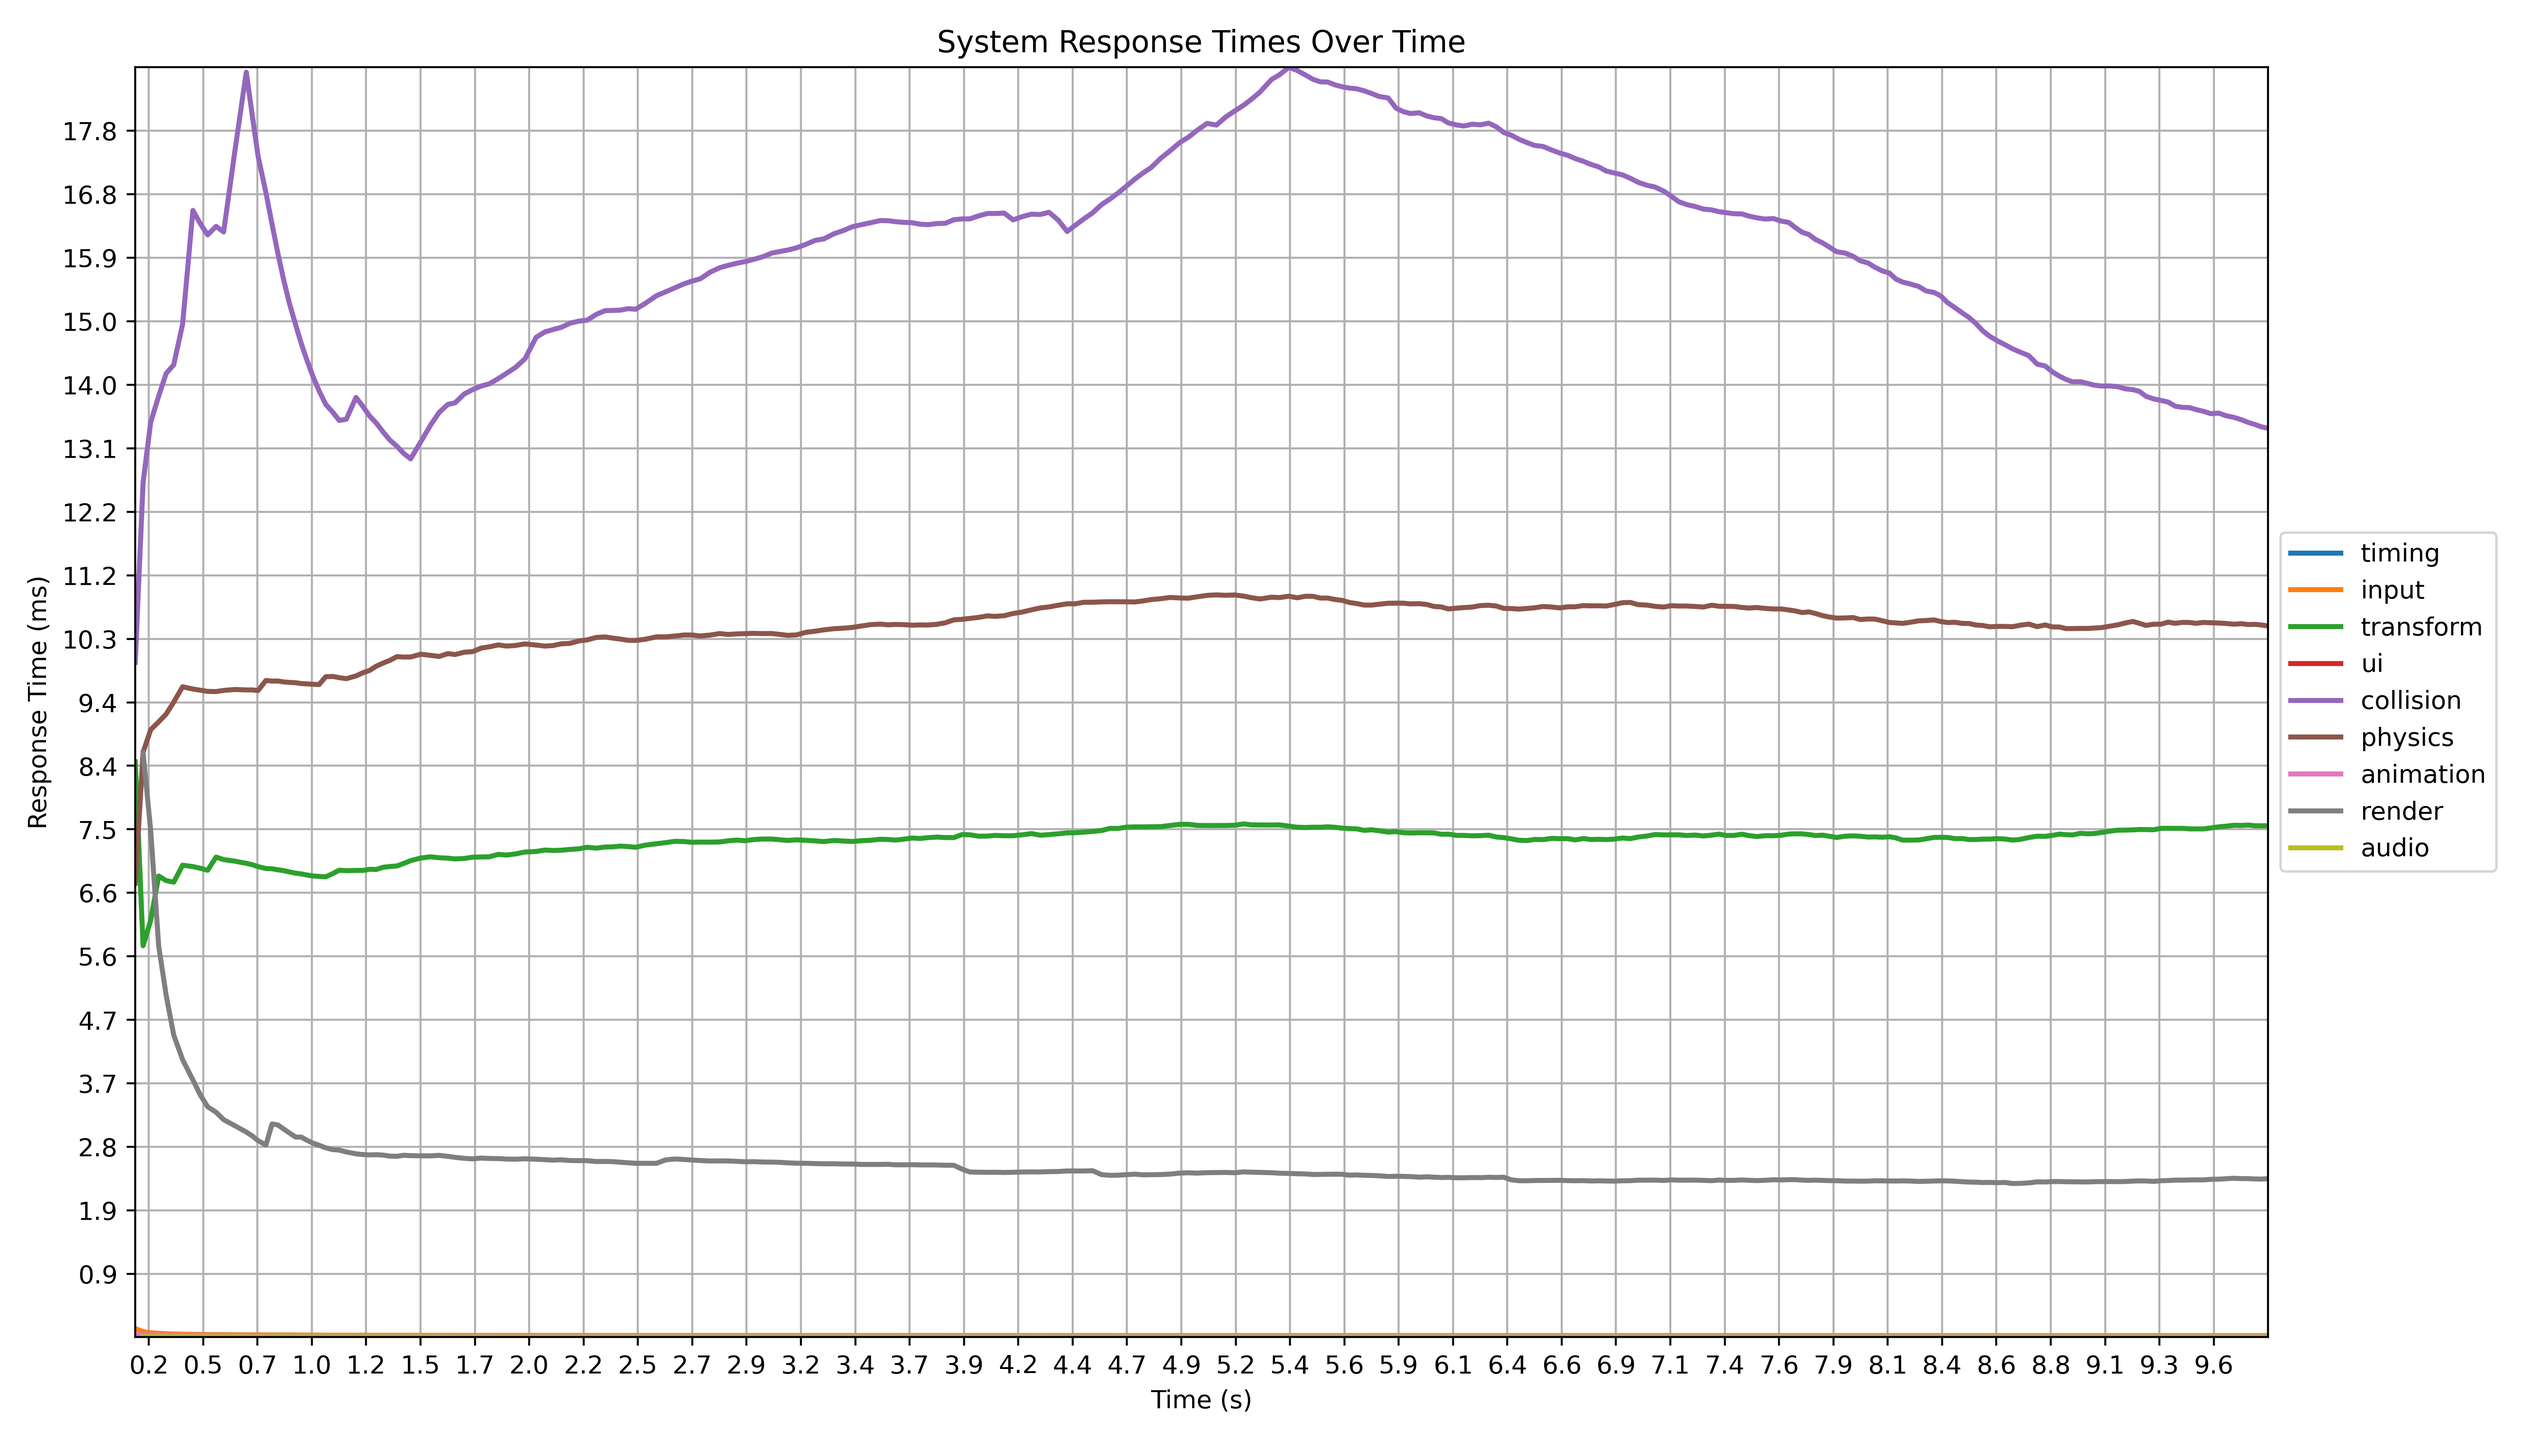
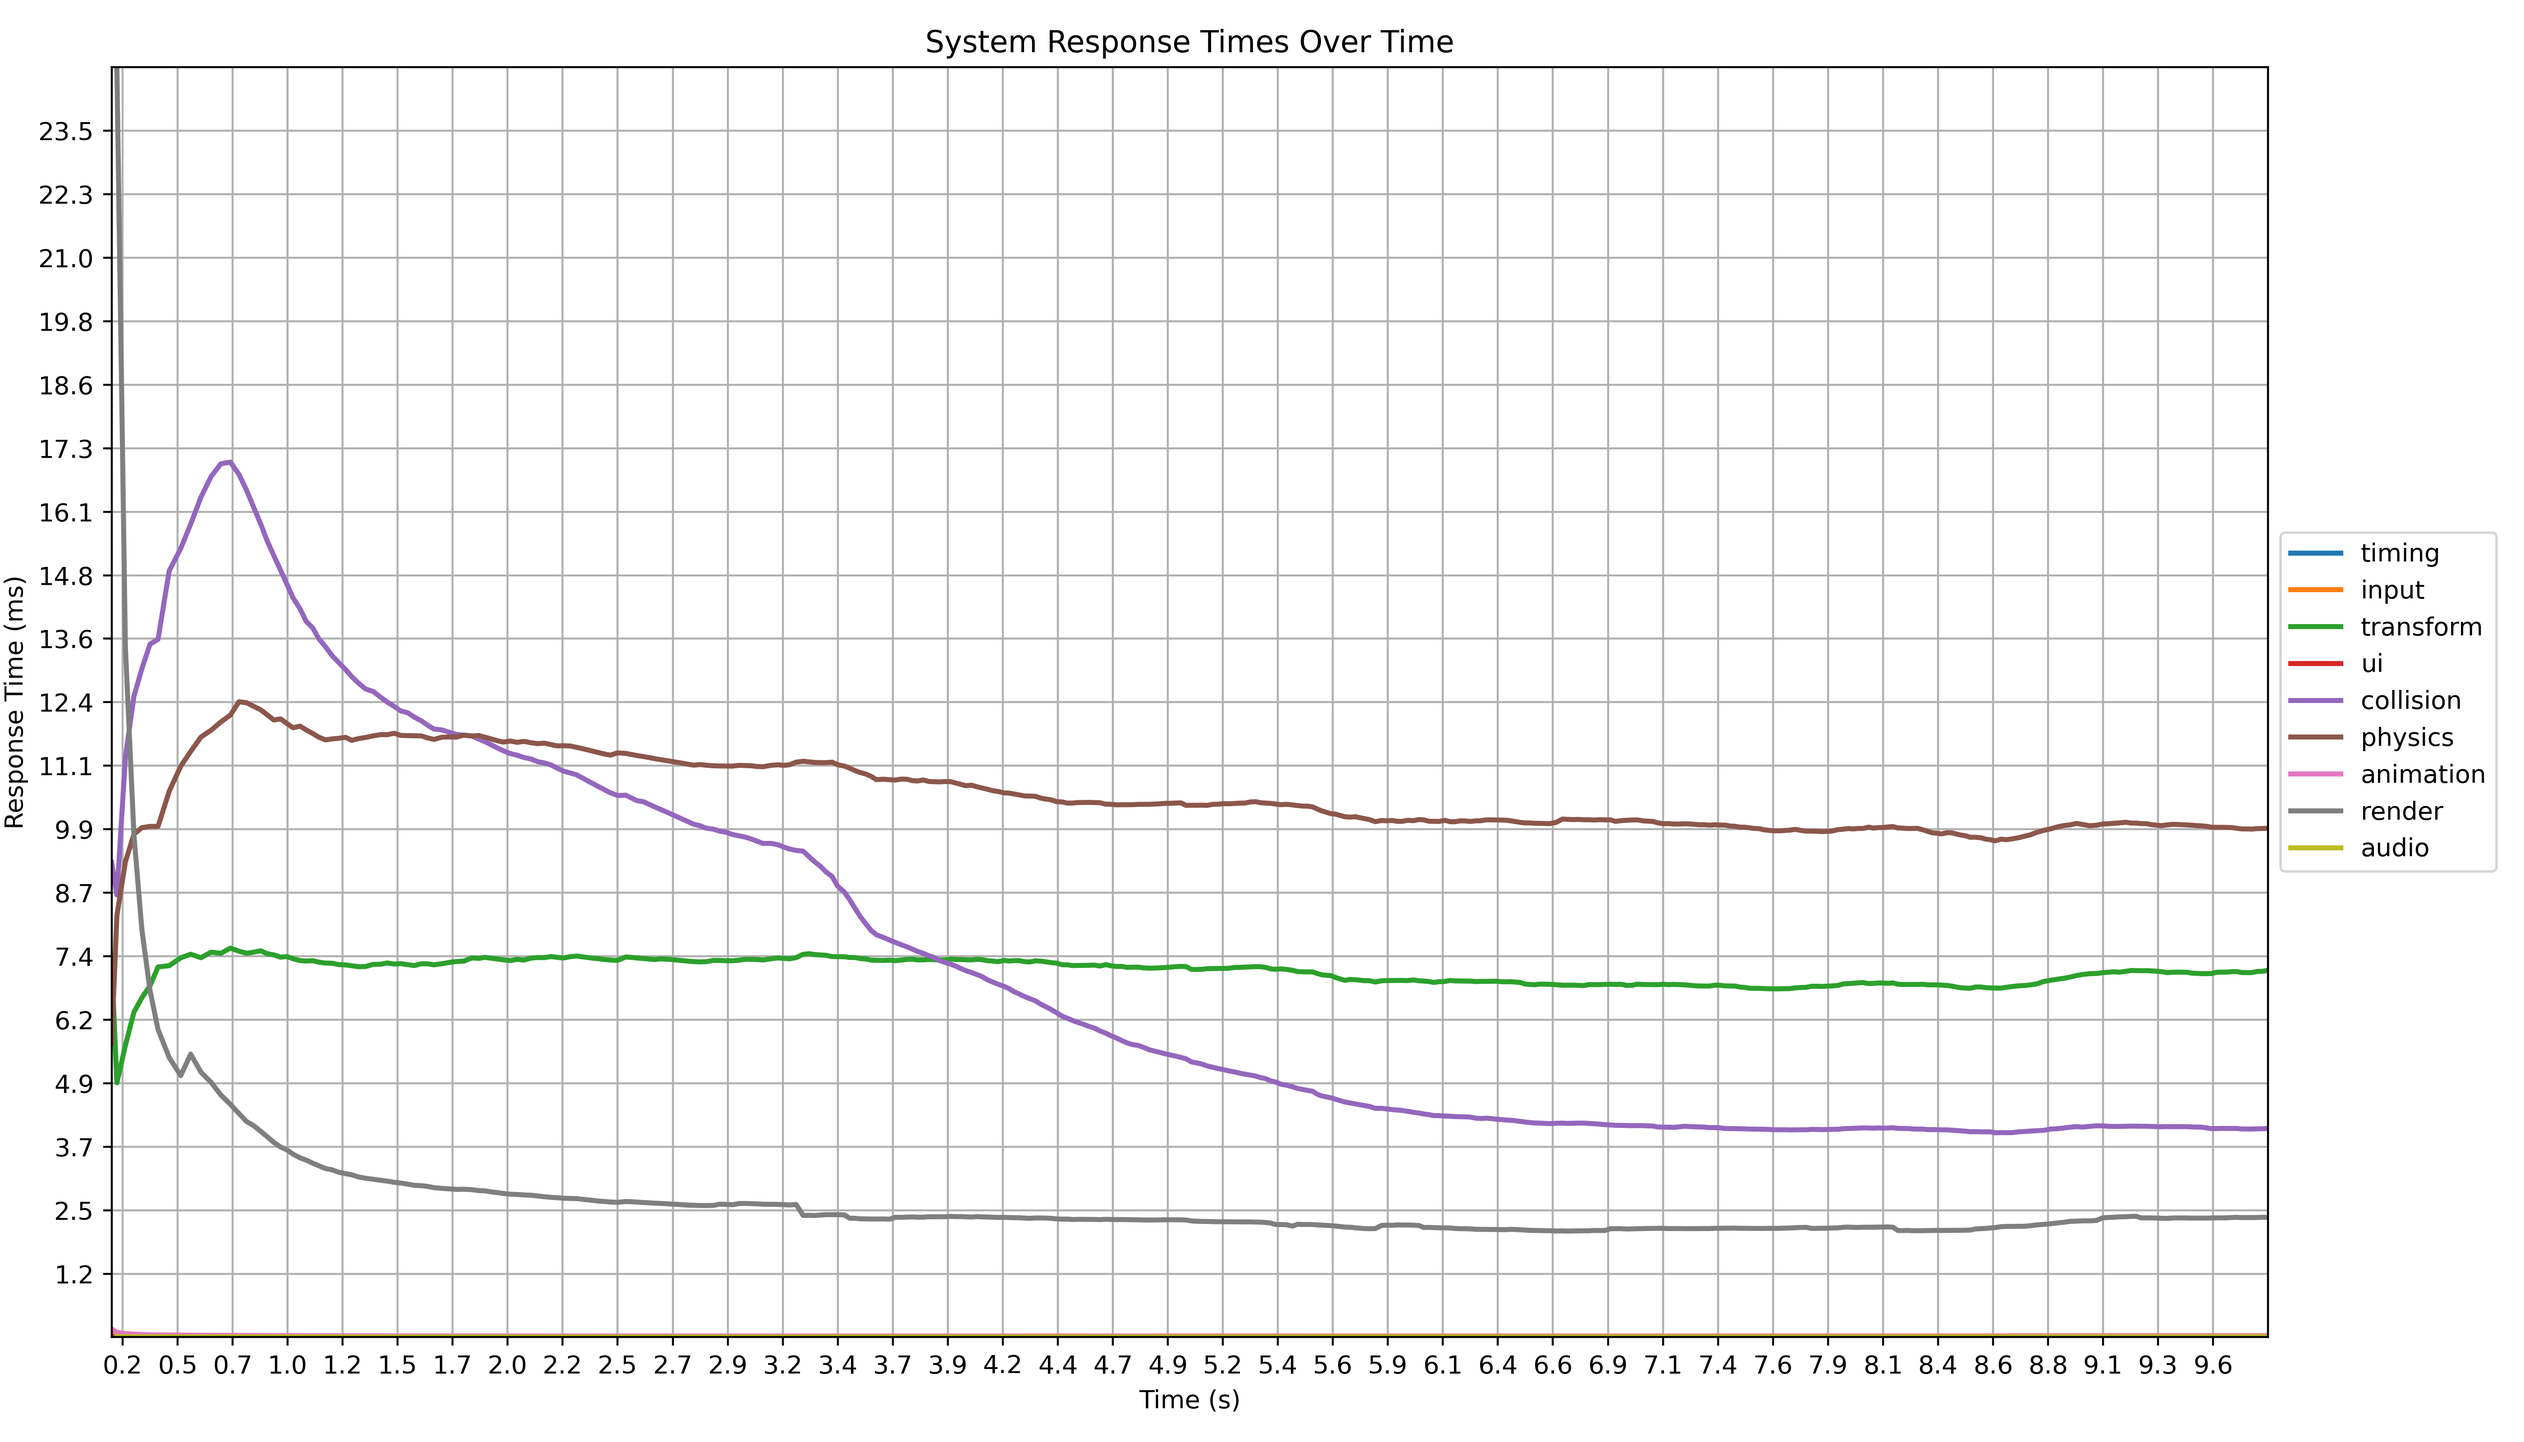
Update physics benchmark

diff --git a/benchmarks/physics/__init__.py b/benchmarks/physics/__init__.py
@@ -1,5 +1,6 @@
 import benchmarks.benchmarker as benchmarker
 import extro
+import random
 
 extro.Services.WorldService.set_tile_size(6)
 extro.Window.set_title("Physics Benchmark")
@@ -24,7 +25,7 @@ for index in range(NUMBER_OF_INSTANCES):
     position: extro.Coord = extro.Coord(
         0, 0.4 if index % 2 == 0 else 0.5, extro.Coord.CoordType.NORMALIZED
     )
-    position.absolute_x = size.absolute_x * (1.1 * column_index)
+    position.absolute_x = size.absolute_x * (1.3 * column_index)
 
     rect = extro.Instances.World.Rectangle(
         position=position,
@@ -44,7 +45,8 @@ for index in range(NUMBER_OF_INSTANCES):
     rect.add_component(collider)
     scene.add(rect)
     physics_body.apply_force(
-        extro.Vector2(10, 300 if index % 2 == 0 else -300), extro.Vector2(1, 0)
+        extro.Vector2(10, 300 if index % 2 == 0 else -300),
+        extro.Vector2(random.random(), random.random()),
     )
 
 extro.Engine.start()

diff --git a/benchmarks/physics/report.md b/benchmarks/physics/report.md
@@ -1,6 +1,6 @@
 # Physics Benchmark Report
 
-This benchmark ran for 9.83 seconds and captured 269 data points.
+This benchmark ran for 9.82 seconds and captured 374 data points.
 
 ### Benchmark Information
 
@@ -8,17 +8,16 @@ This benchmark ran for 9.83 seconds and captured 269 data points.
 
 ### Average System Response Times
 
-
-Average FPS: 29.07
+Average FPS: 40.02
 
 - timing: 0.01 ms
 - input: 0.03 ms
-- transform: 7.31 ms
+- transform: 7.12 ms
 - ui: 0.01 ms
-- collision: 15.87 ms
-- physics: 10.44 ms
+- collision: 6.85 ms
+- physics: 10.50 ms
 - animation: 0.02 ms
-- render: 2.55 ms
+- render: 2.58 ms
 - audio: 0.01 ms
 
 ### System Specifications
